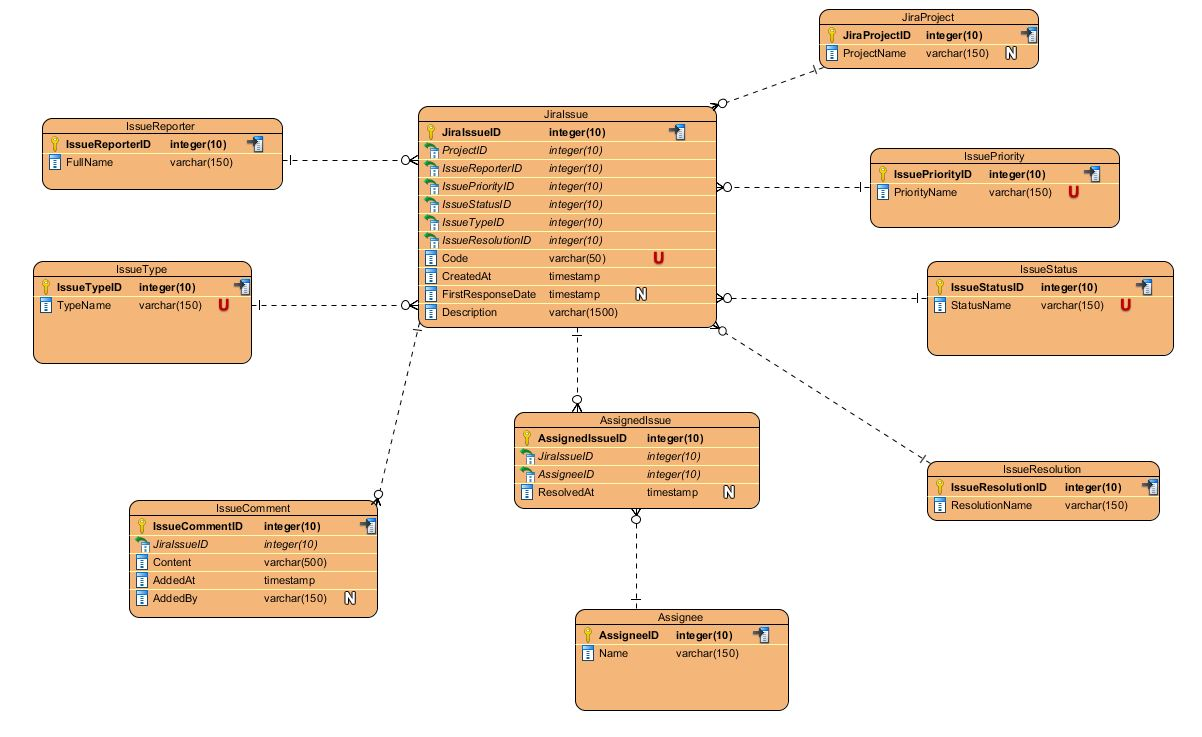
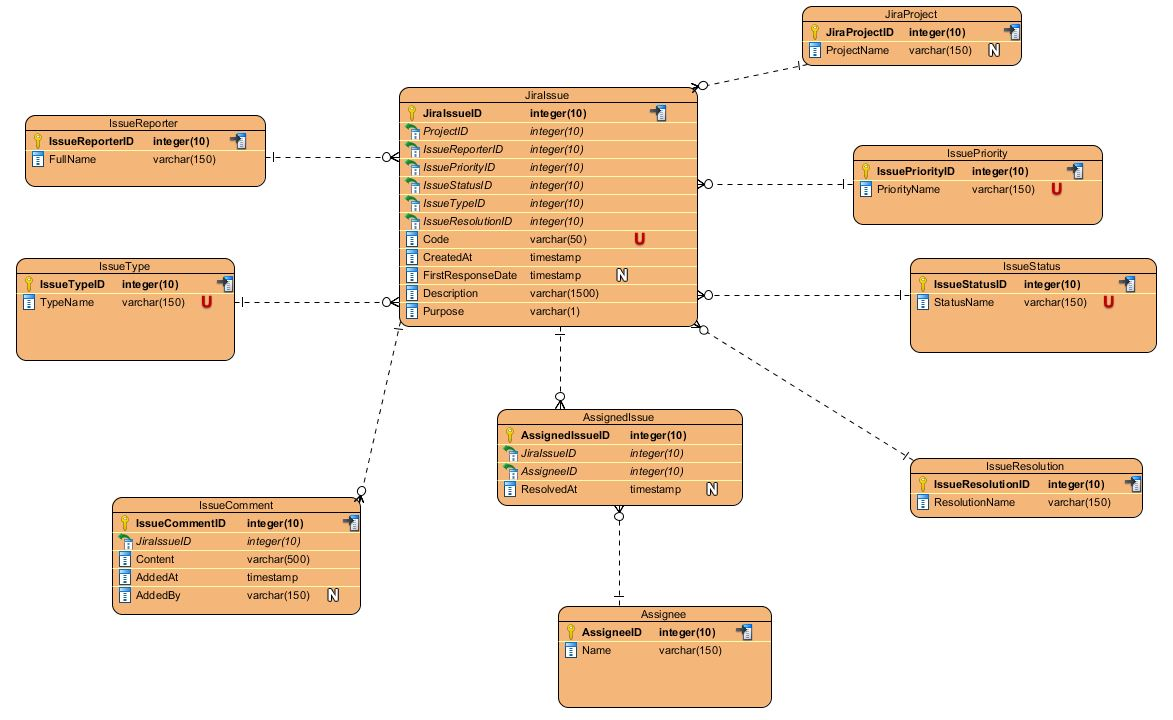
Added new column to database + defined default null constraints

diff --git a/dev/project/common/src/main/java/database/entity/JiraIssue.java b/dev/project/common/src/main/java/database/entity/JiraIssue.java
@@ -64,6 +64,9 @@ public class JiraIssue {
 	@Column(name="DESCRIPTION")
 	private String description;
 	
+	@Column(name="PURPOSE")
+	private String purpose;
+	
 
 	@ManyToMany(fetch = FetchType.LAZY, cascade = CascadeType.ALL)
 	@JoinTable(name = "ASSIGNED_ISSUE", joinColumns = {
@@ -125,6 +128,14 @@ public class JiraIssue {
 
 	public void setDescription(String description) {
 		this.description = description;
+	}
+
+	public String getPurpose() {
+		return purpose;
+	}
+
+	public void setPurpose(String purpose) {
+		this.purpose = purpose;
 	}
 
 }
